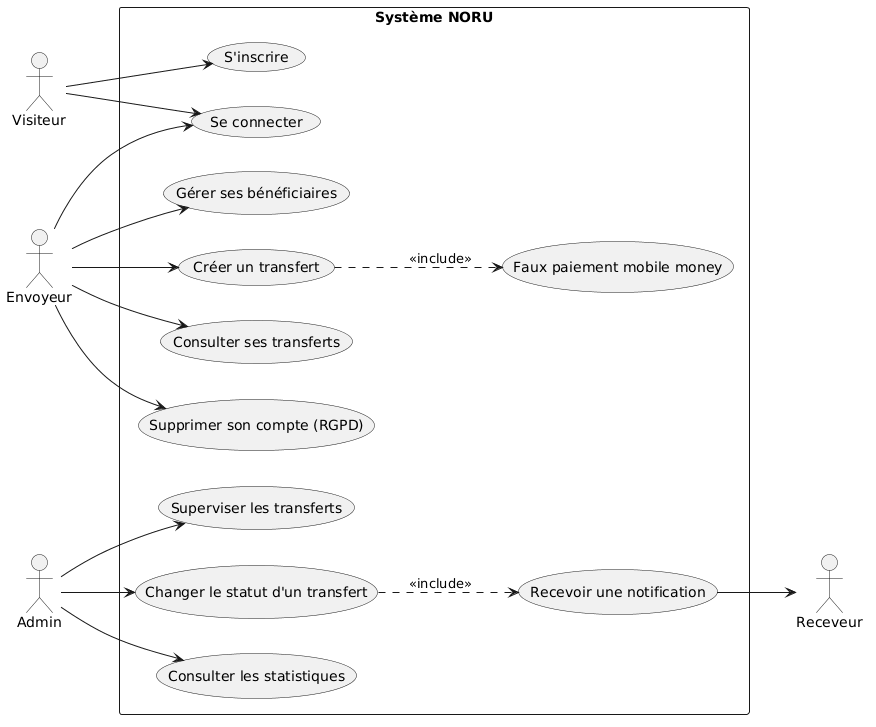
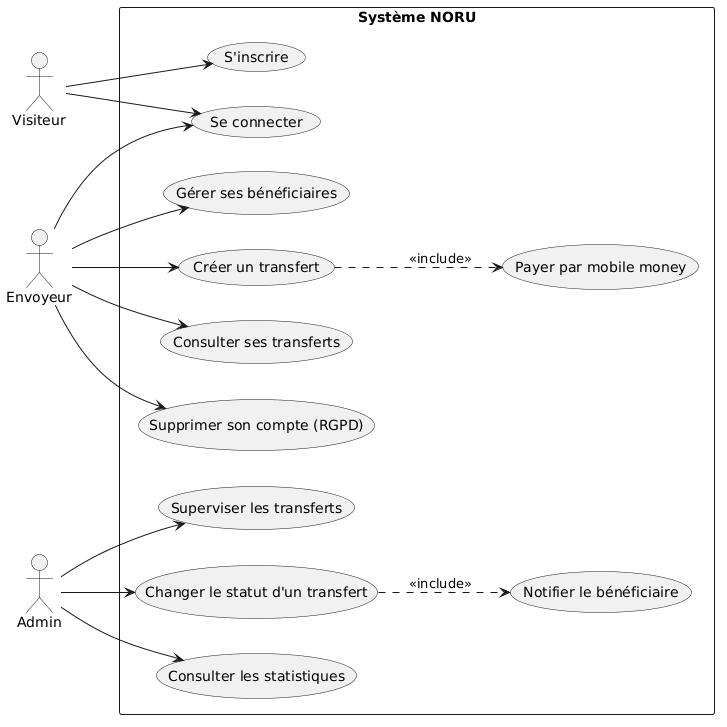
docs(uml): retire l'acteur Receveur, ajoute le MLD, renomme le paiement
- cas d'utilisation : 3 acteurs (Receveur retire, il n'est que notifie)
- 'Faux paiement' -> 'Payer par mobile money'
- nouveau diagramme MLD (0b-mld.puml + png)

diff --git a/docs/04-diagrammes-uml.md b/docs/04-diagrammes-uml.md
@@ -20,12 +20,12 @@
 
 ## 1. Diagramme de cas d'utilisation
 
-Acteurs : **Visiteur** (non connecté), **Envoyeur** (utilisateur connecté), **Admin**, **Receveur** (acteur secondaire qui reçoit la notification).
+Acteurs : **Visiteur** (non connecté), **Envoyeur** (utilisateur connecté), **Admin**. Le bénéficiaire n'est pas un acteur du système (il ne s'y connecte pas) : il est simplement notifié par email.
 
 Points clés à défendre à l'oral :
 - L'`Envoyeur` est un `Visiteur` qui s'est connecté → il hérite de « Se connecter ».
-- `Créer un transfert` **inclut** `Faux paiement mobile money` (on ne crée pas un transfert sans le financer).
-- `Changer le statut` **inclut** l'envoi de la `notification` au receveur.
+- `Créer un transfert` **inclut** `Payer par mobile money` (on ne crée pas un transfert sans le financer).
+- `Changer le statut` **inclut** `Notifier le bénéficiaire`.
 
 ## 2. Diagramme d'états-transitions (cycle de vie du Transfert)
 